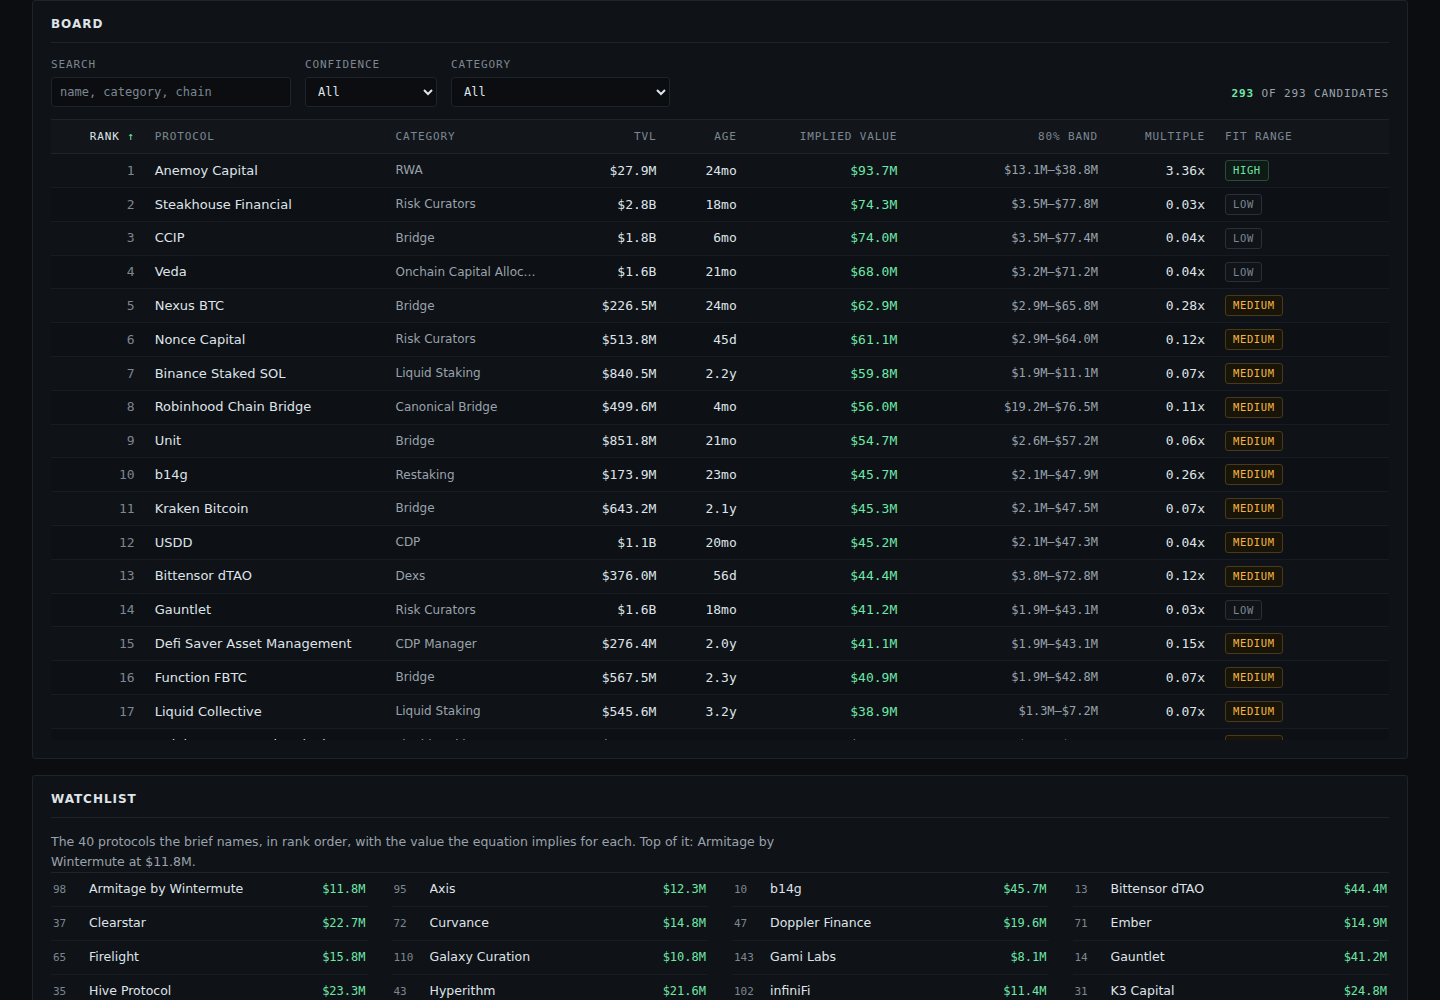
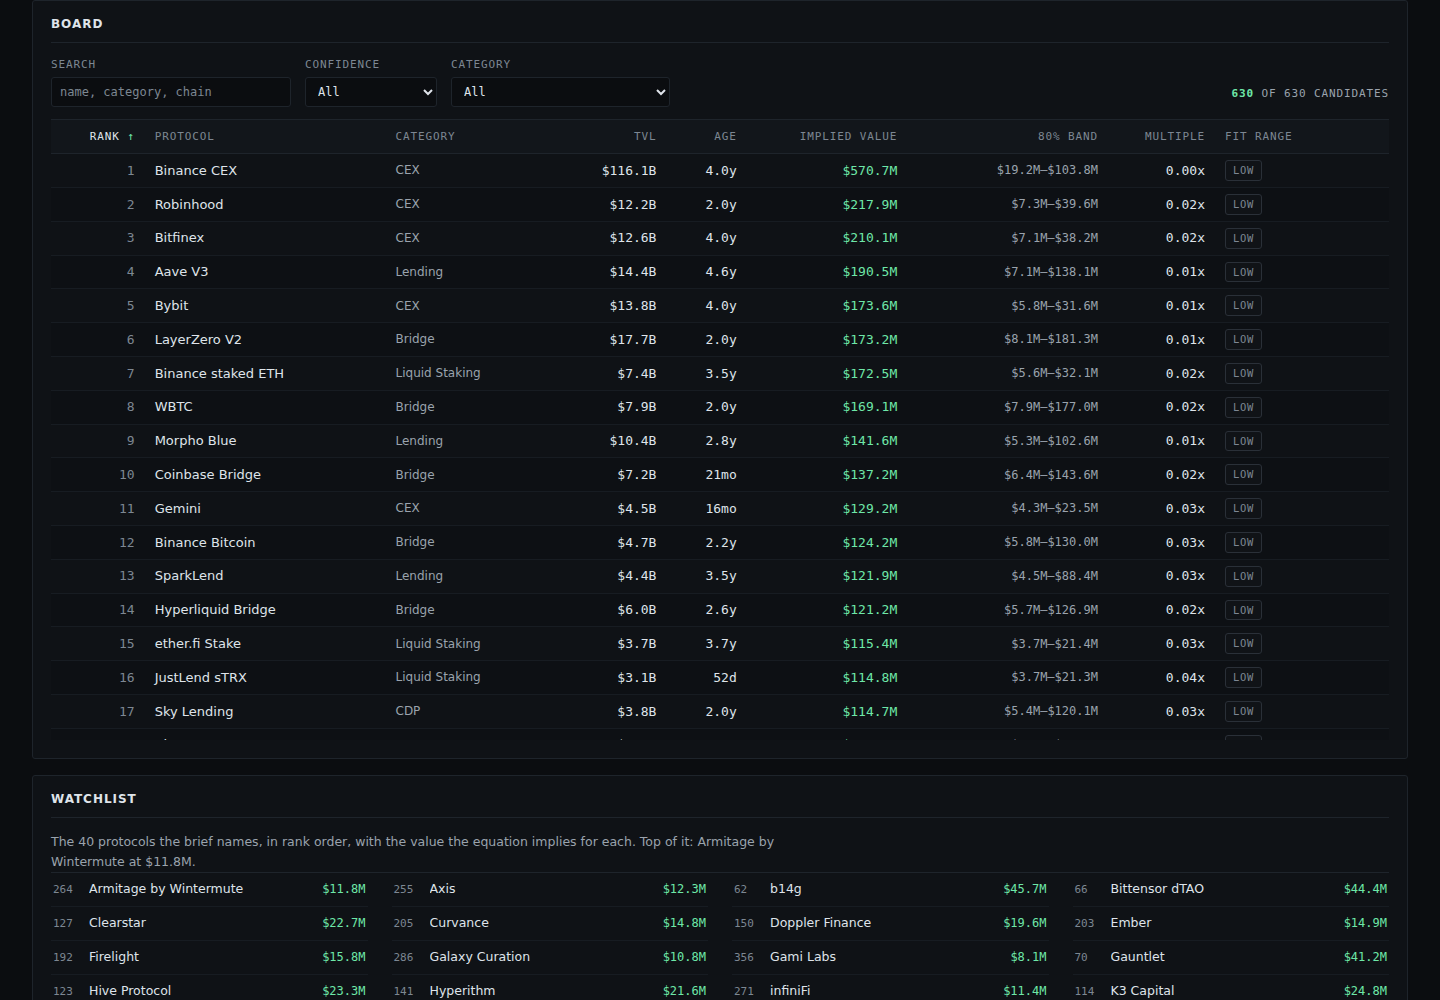
radar-5: rank all 630 tokenless protocols, no screening

diff --git a/lib/model.ts b/lib/model.ts
@@ -434,27 +434,15 @@ function isTrainingRow(p: Protocol): boolean {
 
 /** True when a protocol belongs on the board: it carries no positive market cap. */
 function isCandidate(p: Protocol): boolean {
-  if (typeof p.mcap_usd === 'number' && p.mcap_usd > 0) return false;
-  // A protocol that already lists a ticker or a Coingecko id has a token: not a pre-token target.
-  if (typeof p.symbol === 'string' && p.symbol.trim() !== '') return false;
-  if (typeof p.gecko_id === 'string' && p.gecko_id.trim() !== '') return false;
-  // CEX rows carry an exchange's own token and a TVL the fit never saw; the equation is not for them.
-  if (p.category.trim().toUpperCase() === 'CEX') return false;
-  // Above the training range the equation extrapolates; $2B of TVL is the top of the fitted band.
-  return p.tvl_usd <= CANDIDATE_TVL_CEILING;
+  // The board is every protocol whose token does not trade yet: no screening, no dropped rows.
+  // A row above the fitted TVL range still ranks; the fit-range label says its value is extrapolated.
+  return !(typeof p.mcap_usd === 'number' && p.mcap_usd > 0);
 }
 
-/** Why a pre-token protocol is off the board, by reason. */
-export function screenedCounts(snapshot: Snapshot): { symbol: number; gecko_id: number; cex: number; above_range: number } {
-  const counts = { symbol: 0, gecko_id: 0, cex: 0, above_range: 0 };
-  for (const p of snapshot.protocols) {
-    if (typeof p.mcap_usd === 'number' && p.mcap_usd > 0) continue;
-    if (typeof p.symbol === 'string' && p.symbol.trim() !== '') counts.symbol += 1;
-    else if (typeof p.gecko_id === 'string' && p.gecko_id.trim() !== '') counts.gecko_id += 1;
-    else if (p.category.trim().toUpperCase() === 'CEX') counts.cex += 1;
-    else if (p.tvl_usd > CANDIDATE_TVL_CEILING) counts.above_range += 1;
-  }
-  return counts;
+
+/** Nothing is screened off the board now: the only protocols left out are the ones whose token trades. */
+export function screenedCounts(_snapshot: Snapshot): { symbol: number; gecko_id: number; cex: number; above_range: number } {
+  return { symbol: 0, gecko_id: 0, cex: 0, above_range: 0 };
 }
 
 /** The training rows, in snapshot order. */

diff --git a/dashboard/app.js b/dashboard/app.js
@@ -211,25 +211,23 @@ function renderModelCard() {
     `it orders the research queue, and this page says so everywhere the figure appears.`;
 }
 
-/** The screened-out strip: why 293 rows are ranked out of 758 protocols. */
+/** The coverage strip: how the 758 protocols split into the ranked board and the audited live set. */
 function renderScreened() {
   const { meta } = R;
-  const s = meta.screened || {};
+  const live = (R.calibration && R.calibration.live ? R.calibration.live.length : 0);
   const box = document.getElementById('screened');
-  const kept = meta.protocol_count - (meta.screened_total || 0);
   box.append(
-    fact('Holds a ticker', String(s.symbol ?? 0)),
-    fact('Has a CoinGecko id', String(s.gecko_id ?? 0)),
-    fact('Centralised exchange', String(s.cex ?? 0)),
-    fact('Above fitted TVL range', String(s.above_range ?? 0)),
+    fact('Protocols on the snapshot', String(meta.protocol_count)),
+    fact('Token already trades', String(live)),
     fact('Ranked on the board', String(meta.candidate_count)),
-    fact(`Screened out of ${meta.protocol_count}`, String(meta.screened_total ?? 0)),
+    fact('Rows dropped for a ticker', '0'),
+    fact('Rows dropped for a chain id', '0'),
+    fact('Rows dropped for TVL', '0'),
   );
   const total = box.lastChild;
   total.className = 'total';
-  total.title = `${meta.protocol_count} protocols minus ${meta.screened_total} screened = ${kept} ranked`;
+  total.title = `${meta.protocol_count} protocols = ${meta.candidate_count} ranked + ${live} whose token already trades`;
 }
-
 /* 6. VALIDATION PANEL ------------------------------------------------------ */
 
 function renderValidation() {
